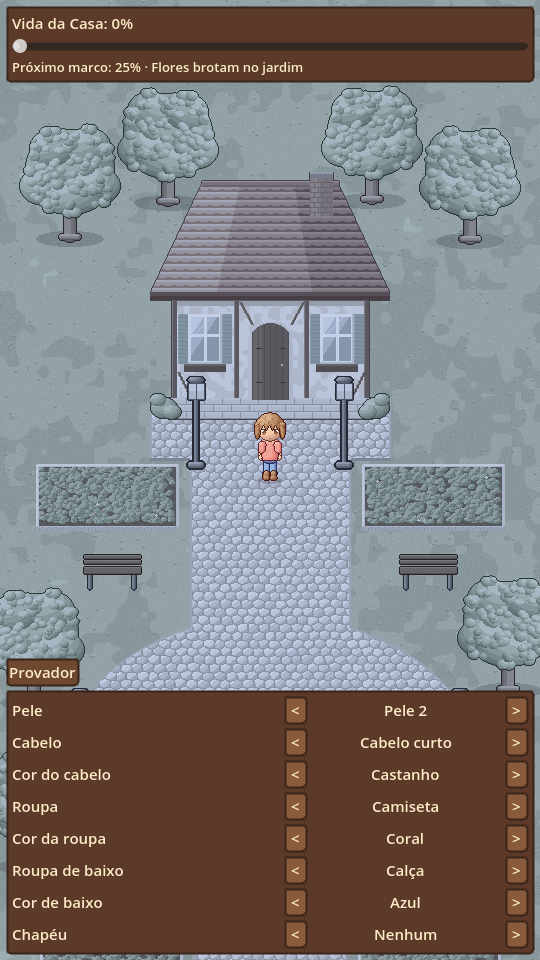
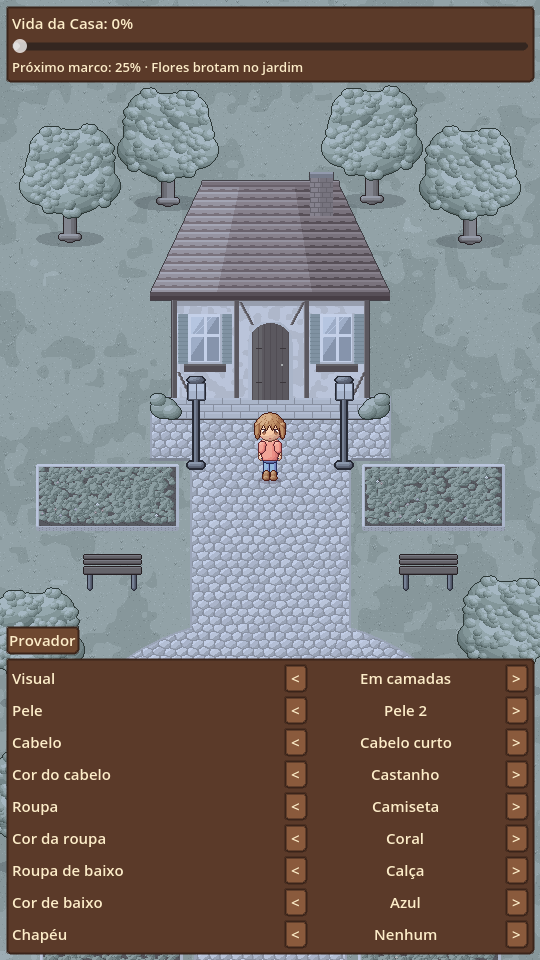
Coloca o personagem gerado no Gemini andando no protótipo
- importar_sprite.py: opção --quadros para figuras encostadas, remoção
  da sombra no chão e limpeza de pontos soltos
- montar_personagem_ia.py: monta a folha 6x3 do jogo a partir das vistas
  paradas e do ciclo de andar
- Itens do tipo 'completo' (personagem inteiro, sem camadas) no catálogo,
  no personagem e no provador
- gerar_arte.py só apaga as pastas que ele mesmo gera
- Testes, captura e GIF do personagem andando

Claude-Session: https://claude.ai/code/session_01RYiEXhj7X4YVLnuMitJzQe

Changed region(s): [[0.0, 0.625, 1.0, 0.7188]]

diff --git a/ferramentas/importar_sprite.py b/ferramentas/importar_sprite.py
@@ -12,7 +12,7 @@ Funciona com prints (imagem borrada ou em escala quebrada), mas a imagem
 original baixada da ferramenta sempre dá resultado melhor.
 
 Uso:
-  python3 ferramentas/importar_sprite.py entrada.png saida.png [--altura 68] [--cores 28] [--previa previa.png]
+  python3 ferramentas/importar_sprite.py entrada.png saida.png [--quadros 4] [--altura 68] [--cores 28] [--previa previa.png]
 """
 
 import argparse
@@ -24,9 +24,10 @@ QW, QH = 64, 80
 PES_Y = 76
 
 
-def _e_fundo(c, limiar_luz=200, limiar_sat=40):
+def _e_fundo(c, limiar_luz=165, limiar_sat=45):
+    """Fundo claro e pouco saturado, incluindo a sombra rosada/acinzentada no chão."""
     r, g, b = c[:3]
-    return min(r, g, b) >= limiar_luz - 30 and max(r, g, b) - min(r, g, b) <= limiar_sat and (r + g + b) / 3 >= limiar_luz
+    return max(r, g, b) - min(r, g, b) <= limiar_sat and (r + g + b) / 3 >= limiar_luz
 
 
 def remover_fundo(img):
@@ -84,6 +85,29 @@ def separar(img, folga=4):
     return figuras
 
 
+def separar_em(img, n):
+    """Divide em n figuras cortando, perto de cada divisão esperada, na coluna com menos pixels."""
+    w, h = img.size
+    a = img.getchannel("A").load()
+    ocupacao = [sum(1 for y in range(h) if a[x, y] > 0) for x in range(w)]
+    caixa = img.getbbox()
+    x_ini, x_fim = caixa[0], caixa[2]
+    largura = (x_fim - x_ini) / n
+    cortes = [x_ini]
+    for k in range(1, n):
+        alvo = x_ini + k * largura
+        faixa = range(int(alvo - largura * 0.35), int(alvo + largura * 0.35))
+        cortes.append(min(faixa, key=lambda x: (ocupacao[x], abs(x - alvo))))
+    cortes.append(x_fim)
+    figuras = []
+    for x0, x1 in zip(cortes, cortes[1:]):
+        recorte = img.crop((x0, 0, x1, h))
+        b = recorte.getbbox()
+        if b:
+            figuras.append(recorte.crop(b))
+    return figuras
+
+
 def _contorno(img, cor=(70, 44, 52, 255)):
     """Pixels da borda da silhueta ficam escuros, como na pixel art."""
     w, h = img.size
@@ -103,6 +127,29 @@ def _contorno(img, cor=(70, 44, 52, 255)):
             px[x, y] = cor
 
 
+def _limpar_pontos(img, minimo=8):
+    """Apaga grupos de pixels soltos menores que 'minimo' (restos de sombra e ruído)."""
+    w, h = img.size
+    px = img.load()
+    visto = set()
+    for y in range(h):
+        for x in range(w):
+            if (x, y) in visto or px[x, y][3] == 0:
+                continue
+            grupo, fila = [], deque([(x, y)])
+            visto.add((x, y))
+            while fila:
+                cx, cy = fila.popleft()
+                grupo.append((cx, cy))
+                for nx, ny in ((cx + 1, cy), (cx - 1, cy), (cx, cy + 1), (cx, cy - 1)):
+                    if 0 <= nx < w and 0 <= ny < h and (nx, ny) not in visto and px[nx, ny][3] > 0:
+                        visto.add((nx, ny))
+                        fila.append((nx, ny))
+            if len(grupo) < minimo:
+                for gx, gy in grupo:
+                    px[gx, gy] = (0, 0, 0, 0)
+
+
 def reduzir(figura, altura, cores):
     escala = altura / figura.height
     w = max(1, round(figura.width * escala))
@@ -113,6 +160,7 @@ def reduzir(figura, altura, cores):
     rgb = rgb.quantize(colors=cores, method=Image.Quantize.MEDIANCUT).convert("RGB")
     saida = rgb.convert("RGBA")
     saida.putalpha(alfa)
+    _limpar_pontos(saida)
     _contorno(saida)
     return saida
 
@@ -125,9 +173,11 @@ def no_quadro(sprite):
     return quadro
 
 
-def importar(entrada, altura=68, cores=28):
+def importar(entrada, altura=68, cores=28, quadros=None):
     img = remover_fundo(Image.open(entrada))
     figuras = separar(img)
+    if quadros and len(figuras) != quadros:
+        figuras = separar_em(img, quadros)
     # sombras no chão costumam sair como figura achatada: descarta o que for baixo demais
     maior = max(f.height for f in figuras)
     figuras = [f for f in figuras if f.height > maior * 0.5]
@@ -140,10 +190,11 @@ def main():
     p.add_argument("saida")
     p.add_argument("--altura", type=int, default=68, help="altura do personagem em pixels (padrão 68)")
     p.add_argument("--cores", type=int, default=28, help="máximo de cores (padrão 28)")
+    p.add_argument("--quadros", type=int, help="quantas figuras existem (use quando estiverem encostadas)")
     p.add_argument("--previa", help="salva também uma prévia ampliada 4x")
     a = p.parse_args()
 
-    quadros = importar(a.entrada, a.altura, a.cores)
+    quadros = importar(a.entrada, a.altura, a.cores, a.quadros)
     folha = Image.new("RGBA", (QW * len(quadros), QH), (0, 0, 0, 0))
     for i, q in enumerate(quadros):
         folha.alpha_composite(q, (i * QW, 0))

diff --git a/ferramentas/montar_personagem_ia.py b/ferramentas/montar_personagem_ia.py
@@ -1,0 +1,57 @@
+#!/usr/bin/env python3
+"""Monta a folha 6 x 3 do jogo a partir de um personagem gerado por IA.
+
+Entradas (já importadas com importar_sprite.py, quadros de 64 x 80):
+- parado: 3 quadros com as vistas de frente, lado e costas (a ordem é configurável)
+- andar: 4 quadros andando de lado (virado para a direita)
+
+Frente e costas não têm animação própria de andar ainda: usam o quadro parado
+com o balanço de corpo (sobe 1 px na passagem), igual ao das camadas.
+
+Uso:
+  python3 ferramentas/montar_personagem_ia.py parado.png andar.png saida.png [--ordem frente,lado,costas]
+"""
+
+import argparse
+
+from PIL import Image
+
+QW, QH = 64, 80
+BALANCO = [0, 1, 0, -1, 0, -1]  # mesmo de ferramentas/arte_personagem.py
+
+
+def quadros(caminho):
+    img = Image.open(caminho).convert("RGBA")
+    return [img.crop((i * QW, 0, (i + 1) * QW, QH)) for i in range(img.width // QW)]
+
+
+def deslocado(q, dy):
+    saida = Image.new("RGBA", (QW, QH), (0, 0, 0, 0))
+    saida.alpha_composite(q, (0, dy))
+    return saida
+
+
+def main():
+    p = argparse.ArgumentParser(description=__doc__, formatter_class=argparse.RawDescriptionHelpFormatter)
+    p.add_argument("parado")
+    p.add_argument("andar")
+    p.add_argument("saida")
+    p.add_argument("--ordem", default="frente,lado,costas", help="ordem das vistas na imagem parada")
+    a = p.parse_args()
+
+    vistas = dict(zip(a.ordem.split(","), quadros(a.parado)))
+    andar = quadros(a.andar)
+    folha = Image.new("RGBA", (QW * 6, QH * 3), (0, 0, 0, 0))
+    for linha, vista in enumerate(("frente", "costas", "lado")):
+        for coluna in range(6):
+            if vista == "lado" and coluna >= 2:
+                q = andar[(coluna - 2) % len(andar)]
+            else:
+                q = deslocado(vistas[vista], BALANCO[coluna])
+            folha.alpha_composite(q, (coluna * QW, linha * QH))
+    folha.save(a.saida)
+    print(f"folha 6 x 3 salva em {a.saida}")
+
+
+if __name__ == "__main__":
+    main()

diff --git a/ferramentas/gerar_arte.py b/ferramentas/gerar_arte.py
@@ -164,9 +164,16 @@ def gerar_icone():
     print("  icon.png")
 
 
+# Pastas que este script gera (e apaga antes de gerar de novo). Arte importada,
+# como arte/personagem/ia/, não é tocada.
+PASTAS_GERADAS = ["personagem/corpo", "personagem/rosto", "personagem/cabelo", "personagem/roupa_cima",
+                  "personagem/roupa_baixo", "personagem/calcado", "personagem/chapeu", "cenario"]
+
+
 def main():
-    if ARTE.exists():
-        shutil.rmtree(ARTE)
+    for pasta in PASTAS_GERADAS:
+        if (ARTE / pasta).exists():
+            shutil.rmtree(ARTE / pasta)
     gerar_personagem()
     gerar_cenario()
     gerar_dados()

diff --git a/docs/arte/gerar-com-ia.md b/docs/arte/gerar-com-ia.md
@@ -77,10 +77,19 @@ A warm, cinematic anime-style illustration for a mobile game key art, vertical 9
 Funciona com a imagem baixada ou com um **print de tela** (o print fica um pouco menos nítido).
 
 ```bash
-python3 ferramentas/importar_sprite.py imagem_do_gemini.png personagem.png --previa previa.png
+# 1. Converter cada imagem (use --quadros quando as figuras estiverem encostadas)
+python3 ferramentas/importar_sprite.py parado.png parado_64.png --quadros 3 --previa previa.png
+python3 ferramentas/importar_sprite.py andando.png andando_64.png --quadros 4
+
+# 2. Montar a folha do jogo (6 x 3) e colocar em jogo/arte/personagem/ia/
+python3 ferramentas/montar_personagem_ia.py parado_64.png andando_64.png jogo/arte/personagem/ia/gemini.png --ordem frente,lado,costas
 ```
 
-O script remove o fundo branco, separa os personagens, reduz para a escala real (quadros de 64 × 80, personagem com ~68 px de altura), limpa as cores e alinha os pés. Depois, retoques finais no Pixelorama (gratuito).
+O primeiro script remove o fundo e a sombra, separa os personagens, reduz para a escala real (quadros de 64 × 80, personagem com ~68 px de altura), limpa as cores e alinha os pés. O segundo monta a folha no formato do jogo; no protótipo, escolha **Visual → Gemini (teste)** no provador. Retoques finais podem ser feitos no Pixelorama (gratuito).
+
+![Personagem do Gemini andando no protótipo](../prototipo/ia_andando.gif)
+
+As imagens originais do primeiro teste estão em [`ia/`](ia/).
 
 > Ainda falta separar o personagem em camadas (corpo, roupa, cabelo) para os cosméticos funcionarem. Esse passo é manual ou fica com o artista.
 

diff --git a/jogo/README.md b/jogo/README.md
@@ -18,6 +18,7 @@ Projeto Godot 4.4 para testar as bases técnicas descritas no [GDD](../docs/gdd/
 - **Região Casa como cena ilustrada** de 540 × 1200 em 3/4, com chão de pedra no estilo de Prontera, canteiros, poço, postes e árvores. Objetos com ordenação por profundidade (o personagem passa atrás da casa e das árvores).
 - **Toque para andar** com caminho (A*) calculado sobre uma **máscara de área caminhável**, suavizado em linha reta quando possível. Tocar num obstáculo leva ao ponto livre mais próximo.
 - **Mundo desbotado** por shader, com 4 marcos: flores (25%), fumaça na chaminé (50%), janelas e postes acesos (75%), borboletas, folhas caindo e **luz dourada** (100%).
+- **Personagem gerado por IA (teste):** no provador, **Visual → Gemini (teste)** troca as camadas por um personagem inteiro importado do Gemini (ver [gerar arte com IA](../docs/arte/gerar-com-ia.md)).
 - **Painel de testes:** controle deslizante de vida da região e um provador para trocar aparência.
 
 > O controle deslizante deixa a vida **descer** só para testes. No jogo, a vida de uma região nunca diminui (pilar "nunca punir").
